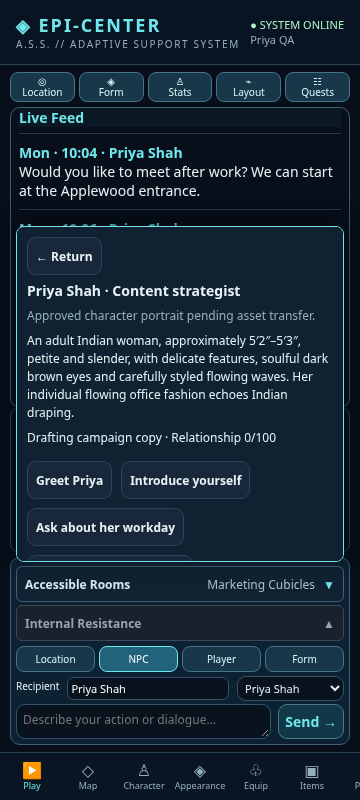
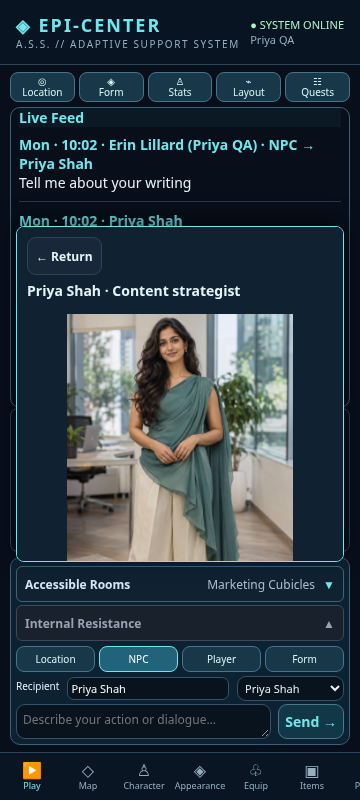
Import approved Priya portrait and verify candidate rendering

Changed region(s): [[0.0611, 0.375, 0.9167, 0.7188], [0.0306, 0.1562, 0.825, 0.2812], [0.8556, 0.1875, 0.9167, 0.2188]]

diff --git a/rebuild/hub/index.html b/rebuild/hub/index.html
@@ -8,7 +8,7 @@ body .v882-shell{display:flex;flex-direction:column;gap:9px;max-width:900px;marg
 .stats-reference-portrait .form-portrait{width:160px;max-width:100%;margin:10px auto}.stats-reference-portrait img{display:block;width:100%;height:auto}.apartment-dock{min-width:0;min-height:0;border:1px solid #426277;border-radius:10px;background:#102132;overflow:hidden}.apartment-stack{position:relative;height:100%;min-height:0}.apartment-view{height:100%;overflow-y:auto;padding:8px;overscroll-behavior:contain}.apartment-layer{position:absolute;inset:0;background:#11293c;z-index:2;box-shadow:-3px 0 15px #0008}.apartment-item-layer{z-index:3}.apartment-view>.card{border:0;background:transparent;margin:0;padding:5px}.apartment-view .eyebrow{font-size:10px}.apartment-view h3{font-size:14px;margin:6px 0}.apartment-view h4{font-size:13px;margin:9px 0}.apartment-view p{font-size:12px;line-height:1.5;margin:7px 0}.apartment-view .btn{font-size:12px;padding:8px}.apartment-view .apartment-routes{gap:5px}.apartment-view .apartment-item-link{display:block;width:100%;margin:5px 0;text-align:left}.apartment-current-screen>[data-apartment-back],.apartment-current-screen>.apartment-back{position:sticky;top:0;z-index:4;display:block;background:#11293c;box-shadow:0 4px 8px #11293c}.apartment-view[inert]{pointer-events:none}.apartment-view>.apartment-explorer>.apartment-paths{border-bottom:1px solid var(--line);padding-bottom:4px}body.combat-active #app .v882-shell:has(.apartment-dock){grid-template-rows:30px minmax(100px,1fr) min(34dvh,300px) auto var(--compose-height,77px)!important}body.combat-active #app .v882-shell:has(.apartment-dock):not(:has(.mind-dock)){grid-template-rows:30px minmax(100px,1fr) min(40dvh,330px) var(--compose-height,77px)!important}body.combat-active #app .v882-shell:has(.apartment-dock) .mind-body{max-height:17dvh}@media(max-height:680px){body.combat-active #app .v882-shell:has(.apartment-dock){grid-template-rows:28px minmax(80px,1fr) 29dvh auto var(--compose-height,77px)!important}body.combat-active #app .v882-shell:has(.apartment-dock):not(:has(.mind-dock)){grid-template-rows:28px minmax(80px,1fr) 34dvh var(--compose-height,77px)!important}body.combat-active #app .v882-shell:has(.apartment-dock) .mind-body{max-height:10dvh}}
 .apartment-current-screen{position:relative;inset:auto;width:100%;height:100%;min-height:0;overflow-y:auto}.apartment-back{display:block;margin:0 0 8px;text-align:left}
 
-.current-body-feed{max-height:18dvh;overflow:auto;border:1px solid var(--line);padding:6px;border-radius:8px}.current-body-feed .record-row{padding:3px 0;font-size:12px}.intro-guidance{padding:8px;margin:6px 0;font-size:12px}.intro-guidance p{margin:4px 0}.intro-guidance .btn{padding:5px 8px}</style><link rel="stylesheet" href="../combat/encounter-ui-v1.0.40.css?v=1.0.98"><link rel="stylesheet" href="navigation-v1.0.66.css?v=1.0.98"><link rel="stylesheet" href="location-details.css?v=1.0.98"></head><body><div class="shell"><header class="top"><div><div class="brand">◈ EPI-CENTER</div><div class="sub">A.S.S. // ADAPTIVE SUPPORT SYSTEM</div></div><div class="online">● SYSTEM ONLINE<br><span id="topName" style="color:#96afbc">GUEST CONNECTION</span></div></header><div class="layout"><aside class="side"><div class="eyebrow">Navigation</div><div id="sideNav"></div><div class="sidefoot">NEURAL LINK: STABLE<br>SESSION: LOCAL SAVE<br>BUILD: v1.0.98</div></aside><main class="main" id="app"></main></div><footer class="foot">EPI-CENTER // Build v1.0.98 • UI baseline adapted from v0.8.84 • Saved on this device only</footer></div><nav class="mobile-nav" id="mobileNav"></nav><script src="../combat/engine.js?v=1.0.98"></script><script src="../combat/entity-rules.js?v=1.0.98"></script><script src="../combat/kibbles-ai.js?v=1.0.98"></script><script src="form-storage.js?v=1.0.98"></script><script src="equipment-regions.js?v=1.0.98"></script><script src="../combat/kibbles-form.js?v=1.0.98"></script><script src="../combat/kibbles-text.js?v=1.0.98"></script><script src="../combat/play-encounter.js?v=1.0.98"></script><script src="../combat/encounter-ui-v1.0.39.js?v=1.0.98"></script><script src="legacy-0884-data.js?v=1.0.98"></script><script src="cursed-exposure.js?v=1.0.98"></script><script src="reading-library.js?v=1.0.98"></script><script src="erin-restoration.js?v=1.0.98"></script><script src="world-objects.js?v=1.0.98"></script><script src="authored-dialogue.js?v=1.0.98"></script><script src="location-details.js?v=1.0.98"></script><script src="hub-world.js?v=1.0.98"></script><script src="world-clock.js?v=1.0.98"></script><script src="live-time.js?v=1.0.98"></script><script src="hub-art.js?v=1.0.98"></script><script src="hangry-fangs.js?v=1.0.98"></script><script src="easter-egg.js?v=1.0.98"></script><script src="easter-egg-ui.js?v=1.0.98"></script><script src="internal-mastery.js?v=1.0.98"></script><script src="kibbles-behavior.js?v=1.0.98"></script><script src="erin-work.js?v=1.0.98"></script><script src="form-minds.js?v=1.0.98"></script><script src="canine-intent.js?v=1.0.98"></script><script src="form-minds-ui.js?v=1.0.98"></script><script src="form-living.js?v=1.0.98"></script><script src="player-feed.js?v=1.0.98"></script><script src="erin-household-data.js?v=1.0.98"></script><script src="erin-household.js?v=1.0.98"></script><script src="legacy-autonomy.js?v=1.0.98"></script><script src="technology-center.js?v=1.0.98"></script><script src="richard.js?v=1.0.98"></script><script src="richard-office.js?v=1.0.98"></script><script src="office-floor.js?v=1.0.98"></script><script src="technology-products.js?v=1.0.98"></script><script src="department.js?v=1.0.98"></script><script src="marketing.js?v=1.0.98"></script><script src="priya.js?v=1.0.98"></script><script src="erin-office.js?v=1.0.98"></script><script src="erin-daily.js?v=1.0.98-comfort2"></script><script src="roleplay-input.js?v=1.0.98"></script><script src="erin-life.js?v=1.0.98"></script><script src="form-body.js?v=1.0.98"></script><script src="erin-life-ui.js?v=1.0.98"></script><script src="apartment-navigation.js?v=1.0.98"></script><script src="erin-ui.js?v=1.0.98"></script><script src="richard-ui.js?v=1.0.98"></script><script src="../combat/civilian-encounter.js?v=1.0.98"></script><script src="cherished-touch.js?v=1.0.98"></script><script src="cherished-touch-ui.js?v=1.0.98"></script><script src="navigation.js?v=1.0.98"></script><script src="location-details-ui.js?v=1.0.98"></script><script src="navigation-ui.js?v=1.0.98"></script><script src="erin-office-ui.js?v=1.0.98"></script><script src="office-floor-ui.js?v=1.0.98"></script><script src="technology-center-ui.js?v=1.0.98"></script><script src="department-ui.js?v=1.0.98"></script><script src="marketing-ui.js?v=1.0.98"></script><script src="priya-ui.js?v=1.0.98"></script><script src="feed-position.js?v=1.0.98"></script><script src="interaction-state.js?v=1.0.98"></script><script src="ai-context.js?v=1.0.98-voice2"></script><script src="ai-ui.js?v=1.0.98-voice2"></script><script src="equipment-ui.js?v=1.0.98"></script><script>
+.current-body-feed{max-height:18dvh;overflow:auto;border:1px solid var(--line);padding:6px;border-radius:8px}.current-body-feed .record-row{padding:3px 0;font-size:12px}.intro-guidance{padding:8px;margin:6px 0;font-size:12px}.intro-guidance p{margin:4px 0}.intro-guidance .btn{padding:5px 8px}</style><link rel="stylesheet" href="../combat/encounter-ui-v1.0.40.css?v=1.0.98"><link rel="stylesheet" href="navigation-v1.0.66.css?v=1.0.98"><link rel="stylesheet" href="location-details.css?v=1.0.98"></head><body><div class="shell"><header class="top"><div><div class="brand">◈ EPI-CENTER</div><div class="sub">A.S.S. // ADAPTIVE SUPPORT SYSTEM</div></div><div class="online">● SYSTEM ONLINE<br><span id="topName" style="color:#96afbc">GUEST CONNECTION</span></div></header><div class="layout"><aside class="side"><div class="eyebrow">Navigation</div><div id="sideNav"></div><div class="sidefoot">NEURAL LINK: STABLE<br>SESSION: LOCAL SAVE<br>BUILD: v1.0.98</div></aside><main class="main" id="app"></main></div><footer class="foot">EPI-CENTER // Build v1.0.98 • UI baseline adapted from v0.8.84 • Saved on this device only</footer></div><nav class="mobile-nav" id="mobileNav"></nav><script src="../combat/engine.js?v=1.0.98"></script><script src="../combat/entity-rules.js?v=1.0.98"></script><script src="../combat/kibbles-ai.js?v=1.0.98"></script><script src="form-storage.js?v=1.0.98"></script><script src="equipment-regions.js?v=1.0.98"></script><script src="../combat/kibbles-form.js?v=1.0.98"></script><script src="../combat/kibbles-text.js?v=1.0.98"></script><script src="../combat/play-encounter.js?v=1.0.98"></script><script src="../combat/encounter-ui-v1.0.39.js?v=1.0.98"></script><script src="legacy-0884-data.js?v=1.0.98"></script><script src="cursed-exposure.js?v=1.0.98"></script><script src="reading-library.js?v=1.0.98"></script><script src="erin-restoration.js?v=1.0.98"></script><script src="world-objects.js?v=1.0.98"></script><script src="authored-dialogue.js?v=1.0.98"></script><script src="location-details.js?v=1.0.98"></script><script src="hub-world.js?v=1.0.98"></script><script src="world-clock.js?v=1.0.98"></script><script src="live-time.js?v=1.0.98"></script><script src="hub-art.js?v=1.0.98"></script><script src="hangry-fangs.js?v=1.0.98"></script><script src="easter-egg.js?v=1.0.98"></script><script src="easter-egg-ui.js?v=1.0.98"></script><script src="internal-mastery.js?v=1.0.98"></script><script src="kibbles-behavior.js?v=1.0.98"></script><script src="erin-work.js?v=1.0.98"></script><script src="form-minds.js?v=1.0.98"></script><script src="canine-intent.js?v=1.0.98"></script><script src="form-minds-ui.js?v=1.0.98"></script><script src="form-living.js?v=1.0.98"></script><script src="player-feed.js?v=1.0.98"></script><script src="erin-household-data.js?v=1.0.98"></script><script src="erin-household.js?v=1.0.98"></script><script src="legacy-autonomy.js?v=1.0.98"></script><script src="technology-center.js?v=1.0.98"></script><script src="richard.js?v=1.0.98"></script><script src="richard-office.js?v=1.0.98"></script><script src="office-floor.js?v=1.0.98"></script><script src="technology-products.js?v=1.0.98"></script><script src="department.js?v=1.0.98"></script><script src="marketing.js?v=1.0.98"></script><script src="priya.js?v=1.0.98"></script><script src="erin-office.js?v=1.0.98"></script><script src="erin-daily.js?v=1.0.98-comfort2"></script><script src="roleplay-input.js?v=1.0.98"></script><script src="erin-life.js?v=1.0.98"></script><script src="form-body.js?v=1.0.98"></script><script src="erin-life-ui.js?v=1.0.98"></script><script src="apartment-navigation.js?v=1.0.98"></script><script src="erin-ui.js?v=1.0.98"></script><script src="richard-ui.js?v=1.0.98"></script><script src="../combat/civilian-encounter.js?v=1.0.98"></script><script src="cherished-touch.js?v=1.0.98"></script><script src="cherished-touch-ui.js?v=1.0.98"></script><script src="navigation.js?v=1.0.98"></script><script src="location-details-ui.js?v=1.0.98"></script><script src="navigation-ui.js?v=1.0.98"></script><script src="erin-office-ui.js?v=1.0.98"></script><script src="office-floor-ui.js?v=1.0.98"></script><script src="technology-center-ui.js?v=1.0.98"></script><script src="department-ui.js?v=1.0.98"></script><script src="marketing-ui.js?v=1.0.98"></script><script src="priya-ui.js?v=1.0.98-portrait1"></script><script src="feed-position.js?v=1.0.98"></script><script src="interaction-state.js?v=1.0.98"></script><script src="ai-context.js?v=1.0.98-voice2"></script><script src="ai-ui.js?v=1.0.98-voice2"></script><script src="equipment-ui.js?v=1.0.98"></script><script>
 const slot=Number(new URLSearchParams(location.search).get('slot')),key='epicenter_v1_slot_'+slot;
 const tabs=[['play','▶','Play'],['map','◇','Map'],['character','♙','Character'],['appearance','◈','Appearance'],['equipment','♧','Equip'],['inventory','▣','Items'],['power','ϟ','Power'],['settings','⚙','Settings'],['dev','⚒','Dev'],['journal','▤','Journal']];
 const esc=x=>String(x??'').replace(/[&<>"']/g,c=>({'&':'&amp;','<':'&lt;','>':'&gt;','"':'&quot;',"'":'&#39;'}[c]));

diff --git a/rebuild/hub/priya-ui.js b/rebuild/hub/priya-ui.js
@@ -1,7 +1,7 @@
 /* Priya uses the existing room dock, composer and civilian encounter adapter. */
 function priyaButton(action,label){return '<button type="button" class="btn secondary" data-priya="'+action+'">'+htmlEscape(label)+'</button>';}
 function priyaMarkup(){const P=EpiPriya,n=P.state(save),b=priyaButton;if(!P.present(save))return '';if(!n.view)return b('view','Priya Shah · '+n.activity+' →');return b('back','← Return')+'<h3>Priya Shah · Content strategist</h3>'+priyaPortraitMarkup()+'<p>'+htmlEscape(P.definition.appearance)+'</p><p>'+htmlEscape(n.activity)+' · Relationship '+P.relationship(save)+'/100</p><div class="actions">'+[['greet','Greet Priya'],['introduce','Introduce yourself'],['schedule','Ask about her workday'],['work','Discuss content strategy'],['interests','Talk about writing and leisure'],['home','Ask about home'],['listen','Listen thoughtfully'],['apologize','Apologize'],['invite','Ask about meeting after work'],['accept','Accept invitation'],['decline','Decline invitation'],['attack','Attack Priya']].filter(([a])=>!['accept','decline'].includes(a)||n.invitations.some(i=>i.identity===P.identity(save)&&i.day===Math.floor(EpiWorldClock.ensure(save).minutes/1440)&&['offered','appeal'].includes(i.status))).map(([a,t])=>b(a,t)).join('')+'</div><details><summary>Recorded content-strategy work</summary>'+Object.values(P.daily(save).work).map(w=>'<p>'+htmlEscape(w.kind+' · '+EpiTechnologyProducts.get(w.productId).name)+' · '+w.minutes+' actual work minutes</p>').join('')+'<p>These are work-time records, not approved campaigns, sales or new player rewards.</p></details>';}
-function priyaPortraitMarkup(){return '<p class="muted">Approved character portrait pending asset transfer.</p>';}
+function priyaPortraitMarkup(){return '<figure class="priya-portrait"><img src="assets/priya-shah-approved.png?v=1.0.98-portrait1" alt="Priya Shah wearing a teal draped blouse and cream trousers in her office" width="1024" height="1536" style="display:block;width:auto;max-width:100%;height:auto;max-height:400px;object-fit:contain;margin-inline:auto"><figcaption>Priya Shah · approved character portrait</figcaption></figure>';}
 function priyaHomeMarkup(){return save.hub.location==='applewood'&&!save.world?.applewood?.inside?'<details class="card"><summary>Priya Shah · Unit 2F</summary><p>Visit through the building entrance. Priya must actually be home. Unit 2F has no playable interior yet.</p>'+priyaButton('visit','Ask to visit Priya · 2 min')+'</details>':'';}
 function priyaAction(action,text=''){try{const P=EpiPriya,n=P.state(save);if(action==='back')n.view=false;else if(action==='view'){P.guard(save,false);n.view=true;EpiRichard.state(save).view=false;EpiDepartment.state(save).daniel.view=false;EpiMarketing.state(save).nadia.view=false;save.hub.nearbyCollapsed=false;}else {if(EpiTechnologyCenter.inside(save))EpiTechnologyCenter.permission(save,'physical action');else {const permission=EpiFormMinds.allowActivity(save,'physical action');if(!permission.allowed)throw Error(permission.messages.join(' '));}if(action==='attack'){const enemy=P.combatant(save),resources=Object.fromEntries(['health','stamina','resolve','arousal'].map(k=>[k,devResourceValue(k)]));if(resources.health<=0||resources.resolve<=0||resources.arousal>=100)throw Error('Recover before another confrontation.');const enc=EpiCivilianEncounter.start({name:currentBodyName(),formId:EpiKibblesForm.equipped(save)?'kibbles':null,attributes:activeStats().attributes,resources,max:currentForm()?.max||{health:100,stamina:100,resolve:100,arousal:100}},enemy,Date.now());feedEntry('Priya Shah',P.aggression(save),undefined,{origin:'dialogue'});save.hub.encounterTarget='priya';screen='play';commitEncounter(enc);return true;}const result=action==='visit'?P.homeVisit(save):P.act(save,action);if(text)feedEntry(save.name+' → Priya',text,undefined,{origin:'player'});feedEntry(result.mechanics?'World':'Priya Shah',result.text,undefined,{origin:result.mechanics?'mechanics':'dialogue'});if(result.minutes)advanceGameTime(result.minutes,'Priya / '+action);}store();screen='play';render();}catch(e){feedEntry('World',e.message,undefined,{origin:'mechanics'});store();render();}return true;}
 function priyaIntent(text){const q=String(text).replace(/\*[^*]*\*/g,' ').trim().toLowerCase();if(/^(?:i )?(?:attack|fight|hit|punch|strike) (?:priya|you)[.!]?$/.test(q))return 'attack';if(/^(?:no(?: thanks)?|i (?:decline|can(?:not|'t) make it))[.!]?$/.test(q))return 'decline';if(/^(?:yes(?: please)?|i accept|i(?:'d| would) love to)[.!]?$/.test(q))return 'accept';if(/\b(?:not|never|don't|do not)\b/.test(q))return 'talk';if(/\b(?:sorry|apologi[sz]e)\b/.test(q))return 'apologize';if(/\b(?:meet after work|invitation|invite)\b/.test(q))return 'invite';if(/\b(?:schedule|workday|hours|tea|yoga)\b/.test(q))return 'schedule';if(/\b(?:copy|product|content|work|campaign)\b/.test(q))return 'work';if(/\b(?:home|apartment)\b/.test(q))return 'home';if(/\b(?:writing|books?|romcom|hobbies)\b/.test(q))return 'interests';if(/\bnadia\b/.test(q))return 'nadia';return 'talk';}

diff --git a/docs/PRIYA-NPC-IMPLEMENTATION.md b/docs/PRIYA-NPC-IMPLEMENTATION.md
@@ -4,7 +4,7 @@ CP051 implementation on `rebuild/1.0-foundations`, based on `114e4223b95fd79f068
 
 ## Saved checkpoint
 
-Implementation candidate `3d05b7bd1c8ff5ce55c7418dc1cc58f56b536d85` is pushed to rebuild. The owner reconfirmed the approved Library link and supplied the inline portrait; its bytes are still unavailable to workspace tools. See the newest `CURRENT-STATUS.md` checkpoint for the exact asset-import next action and mandatory pre-thread handoff rule. No additional gameplay change or test execution is claimed by this documentation update.
+Implementation candidate `3d05b7bd1c8ff5ce55c7418dc1cc58f56b536d85` is pushed to rebuild. The owner subsequently uploaded the approved image to GitHub; exact image bytes have now been imported and verified in the rebuild candidate. See the newest `CURRENT-STATUS.md` checkpoint for the exact asset-import next action and mandatory pre-thread handoff rule. No additional gameplay change or test execution is claimed by this documentation update.
 
 ## Implemented
 
@@ -21,7 +21,7 @@ Implementation candidate `3d05b7bd1c8ff5ce55c7418dc1cc58f56b536d85` is pushed to
 
 Exact schedule times, 40% ordinary late-day selection, +1 daily listening / -3 humiliation / -20 aggression, +2 completed shared visit, acquaintance threshold +10, one invitation per identity/day, an 18:00–19:00 entrance visit with five actual shared minutes, and a check-in after multiple declined occasions are reviewable tuning defaults. They do not establish new owner-approved biography. No fixed decline count proves anger. A private introduction is familiarity, not established close friendship.
 
-**Portrait pending:** the approved image is referenced only at `https://chatgpt.com/library?file_id=libfile_5d22233c95288191bb52413270b3b132&account_id=personal`. It is absent from the repository/mounted assets, and no available connector can download that Library resource. The owner was asked to attach the exact approved image and offered to submit it. No substitute has been generated or claimed approved. The candidate displays a pending-portrait message. Transfer/import and visual verification are still required before treating the requested update as complete.
+**Approved portrait imported:** `rebuild/hub/assets/priya-shah-approved.png` is the exact 1024 × 1536 PNG recovered from owner upload commit `3456f5f`. A later rename on main produced a blank text file; the original image was recovered from Git history without changing main. Source/import blob `877965c4f9e41a1b4083f63a06785858667d7e0e` matches byte-for-byte. See `releases/v1.0.98-priya-portrait.json` for SHA-256 and provenance. The image displays proportionally without cropping or stretching. The Library reference remains historical source approval; downloadable image access is no longer a blocker.
 
 Unit 2F room graph, food inventory/cooking/eating, full hosting interiors, named friends' physical NPCs and new venue services are not implemented. Home activity descriptions are schedule intentions, not consumed meals or completed services. The limited doorstep/entrance visit is explicitly described in UI. Minor-briefing pushback requires a real authored briefing and witnessed irritation history; no automatic daily sabotage is added. Paid Featherless writing quality, native Android and owner acceptance remain untested. Eve's previously reported security escalation is unchanged by this Priya-only slice.
 
@@ -52,13 +52,13 @@ python -m http.server 8766 --bind 127.0.0.1
 node scripts/browser-priya.cjs
 ```
 
-`EPI_PREVIEW_ORIGIN` overrides the localhost URL. Runner creates a fresh isolated browser context with synthetic saves, AI off, live time paused; it never reads or writes the owner's browser slots. Evidence: `releases/v1.0.98-browser-checks.json`; mobile image: `releases/images/v1.0.98-priya-mobile.png`. **12 browser check groups PASS:** boot/resources, office dock, exact conversation timing, composer routing, two refusals, reload/other slot, 360px width, encounter entry, no acquisition on conclusion, home welcome, canonical Dev relationship control, no uncaught exceptions. Fixtures explicitly position actors for isolated interaction checks; deterministic suites verify the full legal commute and calendar. Native-device geometry and paid-model behavior are separate acceptance items.
+`EPI_PREVIEW_ORIGIN` overrides the localhost URL. Runner creates a fresh isolated browser context with synthetic saves, AI off, live time paused; it never reads or writes the owner's browser slots. Evidence: `releases/v1.0.98-browser-checks.json`; mobile image: `releases/images/v1.0.98-priya-mobile.png`. **14 browser check groups PASS:** boot/resources, office dock, exact conversation timing, composer routing, two refusals, reload/other slot, 360px width, encounter entry, no acquisition on conclusion, home welcome, canonical Dev relationship control, no uncaught exceptions, desktop image decode/aspect ratio and 360px portrait display. Fixtures explicitly position actors for isolated interaction checks; deterministic suites verify the full legal commute and calendar. Native-device geometry and paid-model behavior are separate acceptance items.
 
 During development, old UI test contexts needed the new NPC/markup dependency and a hard-coded historical script version was corrected to validate versioned loading. A new calendar test caught absent attendance-counter initialization for added participants; fixed and rerun. Initial browser fixtures left Accessible Rooms closed and attempted a friendly home visit immediately after aggression; fixtures were corrected to open the real dock and isolate the friendly scenario. These failures are not claimed passed until the final reruns.
 
 ## Candidate review before main
 
-1. Import the owner's exact approved portrait and verify it at desktop and mobile widths.
+1. Inspect the imported approved portrait at desktop and mobile widths; automated local rendering checks pass, owner acceptance remains separate.
 2. Preview the rebuild source locally. Meet Priya in Marketing H_W; open her dock and send NPC text. Confirm appearance-based recognition and concise, contextual replies.
 3. Observe a real commute, saved arrival choice, lunch, work-time records and reload. Existing resources, forms, original appearance and other slots must remain unchanged.
 4. As recognized Erin, decline one invitation twice. Confirm one further appeal and then stop; reload and retry without reopening. On a different occasion, accept and attend physically at Applewood's entrance. No fake interior/meal/date reward.

diff --git a/README.md b/README.md
@@ -1,3 +1,13 @@
+## November 16, 2026 — Approved Priya portrait imported and verified
+
+**Branch:** `rebuild/1.0-foundations`; follows checkpoint `29cb850b9a66ac60c6b15edaa311d69e68400932` and implementation candidate `3d05b7bd1c8ff5ce55c7418dc1cc58f56b536d85`. This portrait follow-up is committed separately; `git log -1` identifies its revision. Candidate remains v1.0.98, not promoted to main.
+
[1 lines of base64/hex data omitted]
+
+Replaced the pending-portrait message with the approved image, alt text and proportional contained display; refreshed the Priya UI cache key. Full regression rerun: **969 named automated cases plus entity assertions across 51 suites**, syntax/module paths/whitespace PASS. **14 local Chromium check groups PASS**, including actual desktop image decode, original dimensions, aspect ratio and 360px rendering. Mobile screenshot visually reviewed. Source/hash evidence: `docs/releases/v1.0.98-priya-portrait.json`; test/browser evidence and screenshots updated. No paid inference, owner acceptance or native-Android claim.
+
+**Exact next action:** review the complete rebuild candidate and owner acceptance checklist in `docs/PRIYA-NPC-IMPLEMENTATION.md`, including separate paid Featherless portrayal tests. Remaining limits: Unit 2F interior/food services, new venues, minor-briefing pushback integration and native Android. Flats, cat/collar and new transformation/combat systems stay deferred. Report results and limits before any main promotion. This follow-up does not modify main or deploy gameplay; main's two owner asset-upload commits are preserved.
+
 ## November 16, 2026 — Saved implementation checkpoint and thread handoff rule
 
 **Branch:** `rebuild/1.0-foundations`. **Implemented/tested candidate:** v1.0.98, commit `3d05b7bd1c8ff5ce55c7418dc1cc58f56b536d85`, already pushed to the same remote branch. This documentation checkpoint follows that commit; use `git log -1` for its own revision. Main has not been promoted. Latest documented published gameplay remains v1.0.97, distinct from owner acceptance.
@@ -855,7 +865,7 @@ Epi-Center multiplayer RPG prototype.
 
 | Version | Play / preview | Repository source | Status |
 |---|---|---|---|
-| **v1.0.98 — Priya NPC candidate** | Local preview of `rebuild/1.0-foundations`; not promoted | [Scope and checks](docs/PRIYA-NPC-IMPLEMENTATION.md) | 969 automated cases + entity assertions; 12 local browser groups PASS; approved portrait transfer pending; no owner/model acceptance |
+| **v1.0.98 — Priya NPC candidate** | Local preview of `rebuild/1.0-foundations`; not promoted | [Scope and checks](docs/PRIYA-NPC-IMPLEMENTATION.md) | 969 automated cases + entity assertions; 14 local browser groups PASS; approved portrait imported unchanged; no owner/model acceptance |
 | **v1.0.86 — third-floor rooms and equipment work** | **[Open v1.0.86](https://uderiel.github.io/Epi-Center/rebuild/title-screen/?v=1.0.86)** | [Floor scope](docs/THIRD-FLOOR-WORKPLACE-EXPANSION.md) | 775 automated cases PASS; publication/browser/owner acceptance tracked separately |
 | **v1.0.85 — layered Richard office objects** | **[Open v1.0.85](https://uderiel.github.io/Epi-Center/rebuild/title-screen/?v=1.0.85)** | [Office G](docs/RICHARD-OFFICE-G.md) | 750 automated cases PASS; publication/browser/owner retest tracked separately |
 | **v1.0.84 — direct Work task view** | **[Open v1.0.84](https://uderiel.github.io/Epi-Center/rebuild/title-screen/?v=1.0.84)** | [Office workflow](docs/OFFICE-WORKFLOW.md) | Published/source verified; 745 automated cases + 16 recorded live check groups PASS; owner retest pending |

diff --git a/CHANGELOG.md b/CHANGELOG.md
@@ -1,3 +1,13 @@
+## November 16, 2026 — Approved Priya portrait imported and verified
+
+**Branch:** `rebuild/1.0-foundations`; follows checkpoint `29cb850b9a66ac60c6b15edaa311d69e68400932` and implementation candidate `3d05b7bd1c8ff5ce55c7418dc1cc58f56b536d85`. This portrait follow-up is committed separately; `git log -1` identifies its revision. Candidate remains v1.0.98, not promoted to main.
+
[1 lines of base64/hex data omitted]
+
+Replaced the pending-portrait message with the approved image, alt text and proportional contained display; refreshed the Priya UI cache key. Full regression rerun: **969 named automated cases plus entity assertions across 51 suites**, syntax/module paths/whitespace PASS. **14 local Chromium check groups PASS**, including actual desktop image decode, original dimensions, aspect ratio and 360px rendering. Mobile screenshot visually reviewed. Source/hash evidence: `docs/releases/v1.0.98-priya-portrait.json`; test/browser evidence and screenshots updated. No paid inference, owner acceptance or native-Android claim.
+
+**Exact next action:** review the complete rebuild candidate and owner acceptance checklist in `docs/PRIYA-NPC-IMPLEMENTATION.md`, including separate paid Featherless portrayal tests. Remaining limits: Unit 2F interior/food services, new venues, minor-briefing pushback integration and native Android. Flats, cat/collar and new transformation/combat systems stay deferred. Report results and limits before any main promotion. This follow-up does not modify main or deploy gameplay; main's two owner asset-upload commits are preserved.
+
 ## November 16, 2026 — Saved implementation checkpoint and thread handoff rule
 
 **Branch:** `rebuild/1.0-foundations`. **Implemented/tested candidate:** v1.0.98, commit `3d05b7bd1c8ff5ce55c7418dc1cc58f56b536d85`, already pushed to the same remote branch. This documentation checkpoint follows that commit; use `git log -1` for its own revision. Main has not been promoted. Latest documented published gameplay remains v1.0.97, distinct from owner acceptance.

diff --git a/docs/BUILD-PROGRESS-AND-TEST-HANDOFF.md b/docs/BUILD-PROGRESS-AND-TEST-HANDOFF.md
@@ -1,3 +1,13 @@
+## November 16, 2026 — Approved Priya portrait imported and verified
+
+**Branch:** `rebuild/1.0-foundations`; follows checkpoint `29cb850b9a66ac60c6b15edaa311d69e68400932` and implementation candidate `3d05b7bd1c8ff5ce55c7418dc1cc58f56b536d85`. This portrait follow-up is committed separately; `git log -1` identifies its revision. Candidate remains v1.0.98, not promoted to main.
+
[1 lines of base64/hex data omitted]
+
+Replaced the pending-portrait message with the approved image, alt text and proportional contained display; refreshed the Priya UI cache key. Full regression rerun: **969 named automated cases plus entity assertions across 51 suites**, syntax/module paths/whitespace PASS. **14 local Chromium check groups PASS**, including actual desktop image decode, original dimensions, aspect ratio and 360px rendering. Mobile screenshot visually reviewed. Source/hash evidence: `docs/releases/v1.0.98-priya-portrait.json`; test/browser evidence and screenshots updated. No paid inference, owner acceptance or native-Android claim.
+
+**Exact next action:** review the complete rebuild candidate and owner acceptance checklist in `docs/PRIYA-NPC-IMPLEMENTATION.md`, including separate paid Featherless portrayal tests. Remaining limits: Unit 2F interior/food services, new venues, minor-briefing pushback integration and native Android. Flats, cat/collar and new transformation/combat systems stay deferred. Report results and limits before any main promotion. This follow-up does not modify main or deploy gameplay; main's two owner asset-upload commits are preserved.
+
 ## November 16, 2026 — Saved implementation checkpoint and thread handoff rule
 
 **Branch:** `rebuild/1.0-foundations`. **Implemented/tested candidate:** v1.0.98, commit `3d05b7bd1c8ff5ce55c7418dc1cc58f56b536d85`, already pushed to the same remote branch. This documentation checkpoint follows that commit; use `git log -1` for its own revision. Main has not been promoted. Latest documented published gameplay remains v1.0.97, distinct from owner acceptance.

diff --git a/docs/CURRENT-STATUS.md b/docs/CURRENT-STATUS.md
@@ -1,3 +1,13 @@
+## November 16, 2026 — Approved Priya portrait imported and verified
+
+**Branch:** `rebuild/1.0-foundations`; follows checkpoint `29cb850b9a66ac60c6b15edaa311d69e68400932` and implementation candidate `3d05b7bd1c8ff5ce55c7418dc1cc58f56b536d85`. This portrait follow-up is committed separately; `git log -1` identifies its revision. Candidate remains v1.0.98, not promoted to main.
+
[1 lines of base64/hex data omitted]
+
+Replaced the pending-portrait message with the approved image, alt text and proportional contained display; refreshed the Priya UI cache key. Full regression rerun: **969 named automated cases plus entity assertions across 51 suites**, syntax/module paths/whitespace PASS. **14 local Chromium check groups PASS**, including actual desktop image decode, original dimensions, aspect ratio and 360px rendering. Mobile screenshot visually reviewed. Source/hash evidence: `docs/releases/v1.0.98-priya-portrait.json`; test/browser evidence and screenshots updated. No paid inference, owner acceptance or native-Android claim.
+
+**Exact next action:** review the complete rebuild candidate and owner acceptance checklist in `docs/PRIYA-NPC-IMPLEMENTATION.md`, including separate paid Featherless portrayal tests. Remaining limits: Unit 2F interior/food services, new venues, minor-briefing pushback integration and native Android. Flats, cat/collar and new transformation/combat systems stay deferred. Report results and limits before any main promotion. This follow-up does not modify main or deploy gameplay; main's two owner asset-upload commits are preserved.
+
 ## November 16, 2026 — Saved implementation checkpoint and thread handoff rule
 
 **Branch:** `rebuild/1.0-foundations`. **Implemented/tested candidate:** v1.0.98, commit `3d05b7bd1c8ff5ce55c7418dc1cc58f56b536d85`, already pushed to the same remote branch. This documentation checkpoint follows that commit; use `git log -1` for its own revision. Main has not been promoted. Latest documented published gameplay remains v1.0.97, distinct from owner acceptance.

diff --git a/docs/DEVELOPMENT-MASTER-PLAN.md b/docs/DEVELOPMENT-MASTER-PLAN.md
@@ -1,3 +1,13 @@
+## November 16, 2026 — Approved Priya portrait imported and verified
+
+**Branch:** `rebuild/1.0-foundations`; follows checkpoint `29cb850b9a66ac60c6b15edaa311d69e68400932` and implementation candidate `3d05b7bd1c8ff5ce55c7418dc1cc58f56b536d85`. This portrait follow-up is committed separately; `git log -1` identifies its revision. Candidate remains v1.0.98, not promoted to main.
+
[1 lines of base64/hex data omitted]
+
+Replaced the pending-portrait message with the approved image, alt text and proportional contained display; refreshed the Priya UI cache key. Full regression rerun: **969 named automated cases plus entity assertions across 51 suites**, syntax/module paths/whitespace PASS. **14 local Chromium check groups PASS**, including actual desktop image decode, original dimensions, aspect ratio and 360px rendering. Mobile screenshot visually reviewed. Source/hash evidence: `docs/releases/v1.0.98-priya-portrait.json`; test/browser evidence and screenshots updated. No paid inference, owner acceptance or native-Android claim.
+
+**Exact next action:** review the complete rebuild candidate and owner acceptance checklist in `docs/PRIYA-NPC-IMPLEMENTATION.md`, including separate paid Featherless portrayal tests. Remaining limits: Unit 2F interior/food services, new venues, minor-briefing pushback integration and native Android. Flats, cat/collar and new transformation/combat systems stay deferred. Report results and limits before any main promotion. This follow-up does not modify main or deploy gameplay; main's two owner asset-upload commits are preserved.
+
 ## November 16, 2026 — Saved implementation checkpoint and thread handoff rule
 
 **Branch:** `rebuild/1.0-foundations`. **Implemented/tested candidate:** v1.0.98, commit `3d05b7bd1c8ff5ce55c7418dc1cc58f56b536d85`, already pushed to the same remote branch. This documentation checkpoint follows that commit; use `git log -1` for its own revision. Main has not been promoted. Latest documented published gameplay remains v1.0.97, distinct from owner acceptance.

diff --git a/docs/CHARACTER-CONNECTIONS-AND-WORLD-LIFE.md b/docs/CHARACTER-CONNECTIONS-AND-WORLD-LIFE.md
@@ -1,4 +1,4 @@
-> Implementation checkpoint: the initial NPC candidate v1.0.98 is implemented/tested on rebuild only. See [scope and remaining limitations](PRIYA-NPC-IMPLEMENTATION.md). The approved portrait still requires asset transfer. Broader future design below, including flats/cat and a universal connection resolver, is not claimed shipped.
+> Implementation checkpoint: the initial NPC candidate v1.0.98 is implemented/tested on rebuild only. See [scope and remaining limitations](PRIYA-NPC-IMPLEMENTATION.md). The approved portrait has been imported unchanged from the owner’s GitHub upload and verified locally. Broader future design below, including flats/cat and a universal connection resolver, is not claimed shipped.
 
 # Character connections and world life
 Design contract · CP051 · November 16, 2026. Not implemented or deployed.

diff --git a/docs/Priya-Shah-Character-Design.md b/docs/Priya-Shah-Character-Design.md
@@ -1,4 +1,4 @@
-> Implementation checkpoint: the initial NPC candidate v1.0.98 is implemented/tested on rebuild only. See [scope and remaining limitations](PRIYA-NPC-IMPLEMENTATION.md). The approved portrait still requires asset transfer. Broader future design below, including flats/cat and a universal connection resolver, is not claimed shipped.
+> Implementation checkpoint: the initial NPC candidate v1.0.98 is implemented/tested on rebuild only. See [scope and remaining limitations](PRIYA-NPC-IMPLEMENTATION.md). The approved portrait has been imported unchanged from the owner’s GitHub upload and verified locally. Broader future design below, including flats/cat and a universal connection resolver, is not claimed shipped.
 
 # Priya Shah Character Design
 
